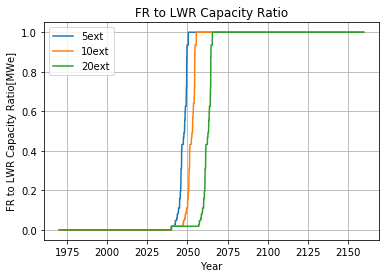
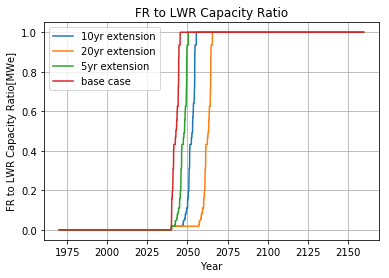
new ratio plot

Changed region(s): [[0.1234, 0.0863, 0.9254, 0.8345], [0.2159, 0.0863, 0.4319, 0.1439]]

diff --git a/sensitivity.tex b/sensitivity.tex
@@ -60,7 +60,7 @@ required for the transition, because the \gls{ASTRID} creates more plutonium.
 \subsection{Lifetime Extension of French \glspl{LWR}}
 Extending the lifetime of French \glspl{LWR} dramatically lowers the average
 monthly \gls{UOX} reprocessing demand, since the \gls{ASTRID} deployment becomes 
-delayed, as shown in figure \ref{fig:pow_diff}. The plutonium demand is delayed,
+delayed (shown in figure \ref{fig:pow_diff}). The plutonium demand is delayed,
  allowing the reprocessing plant more time to prepare plutonium for \gls{ASTRID} reactors. 
 
 Figure \ref{fig:ext_uox} shows the decrease in the average monthly
@@ -99,14 +99,11 @@ the average.
 
 \begin{figure}[htbp!]
     \begin{center}
-        \includegraphics[height=0.25\textheight]{./images/sensitivity/fr_diff.png}
         \includegraphics[height=0.25\textheight]{./images/sensitivity/pow_ratio.png}
     \end{center}
-    \caption{These plots show the deployment scheme of \glspl{SFR} given 
-              \gls{LWR} lifetime extension of five, 10, and 20 years, 
-              respectively. The shift in \gls{ASTRID} deployment allows more
+    \caption{This plot shows the ratio of \glspl{ASTRID} to \glspl{LWR} in France.
+             The delay in \gls{ASTRID} deployment allows more
               time for the reprocessing plant to prepare the plutonium 
-              for \gls{ASTRID} fuel production, lowering
-             the average monthly \gls{UOX}reprocessing capacity.}
+              for \gls{ASTRID} fuel production.}
     \label{fig:pow_diff}
 \end{figure}
